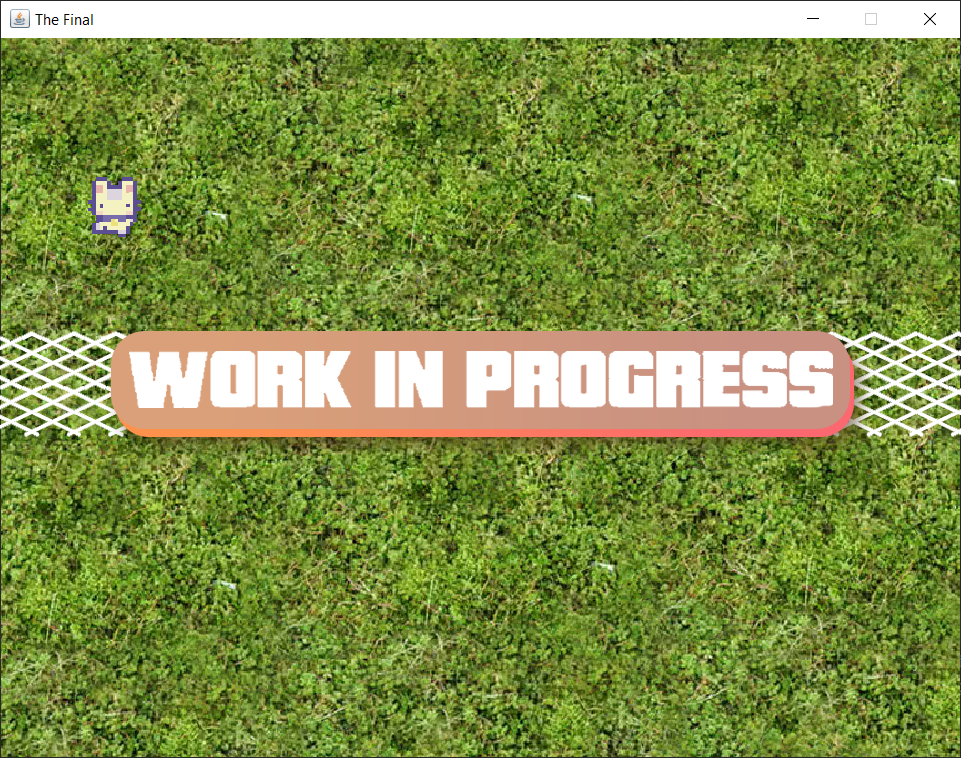
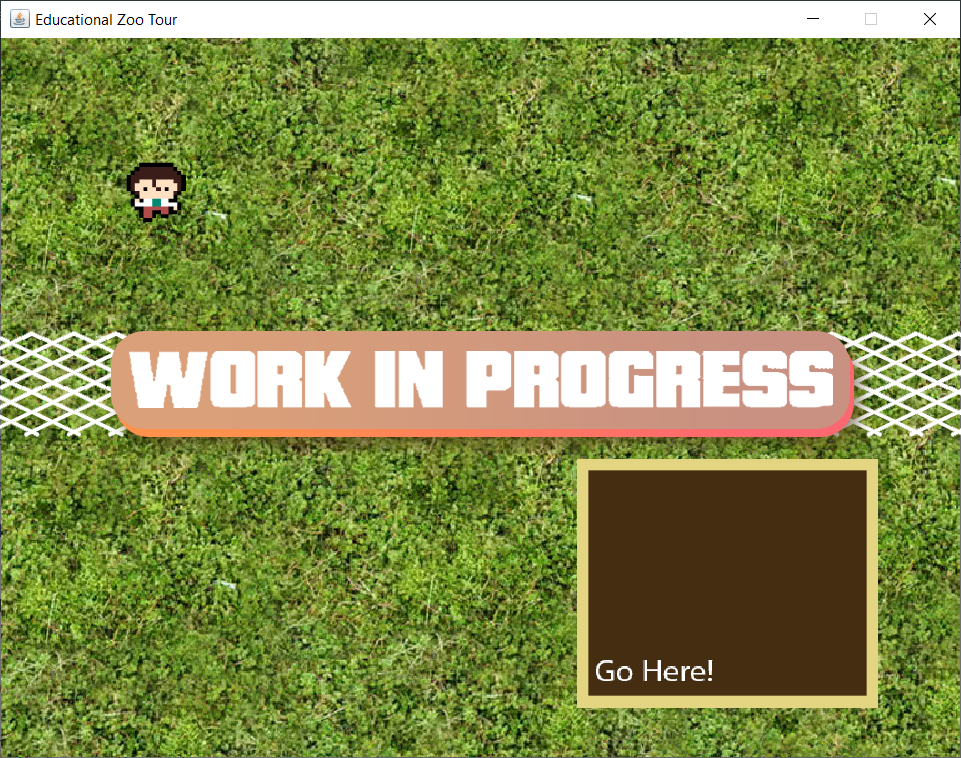
updated readme

diff --git a/README.md b/README.md
@@ -1,6 +1,6 @@
 # Educational Zoo Tour Game/App
 
-![Img 2](screenshots/img2.png)
+![Img 1](screenshots/img1.png)
 ## What is this?
 Educational gampe/app tentang binatang-binatang yang jarang
 dijumpai di kebun binatang pada umumnya.
@@ -14,16 +14,26 @@ dijumpai di kebun binatang pada umumnya.
 - Setiap interaksi akan mengeluarkan suara hewan yang dikunjungi.
 
 ##Change Logs
-06/06/22 - Intial Commit. Basic game functions (playermovement, trigger sound, graphics).
+06/06/22 - Intial Commit
+- Basic game functions (Graphics, Player movement, Sound trigger, Soundtrack).
 
 06/06/22 - Added readme.
 
-09/06/22 - Added information UI with animal title and their descprition, 
-Added a new feature: display information UI whenever player is on a certain place,
-Added interact button UI,
-New Character Design, Updated map.
+09/06/22 - UI Update
+- Added information UI with animal title and their descprition, 
+- Added a new feature: display information UI whenever player is on a certain place
+- Added interact button UI
+- New Character Design
+- Updated map
+- Updated window title
+
+06/06/22 - Updated readme and screenshots.
+
 ## Credits
 - Lead Programmer: nope.
 - Lead Concept & Designer: sekiper
 - Soundtrack: C418, Minecraft
 - Sound Effects: Minecraft
+
+## Screenshot(s)
+![Img 2](screenshots/img2.png)
